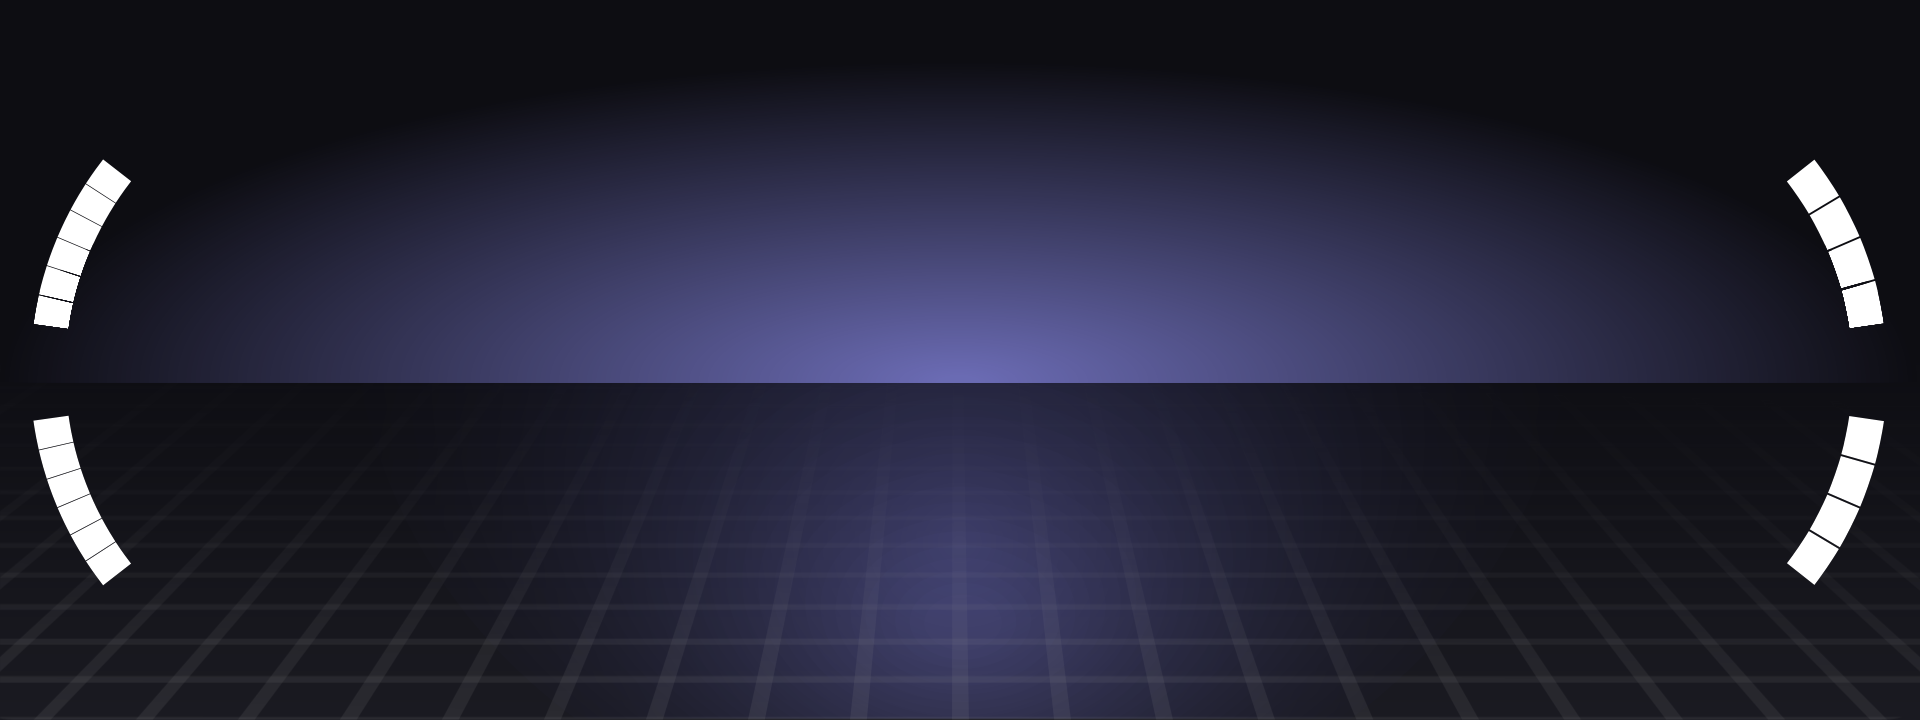
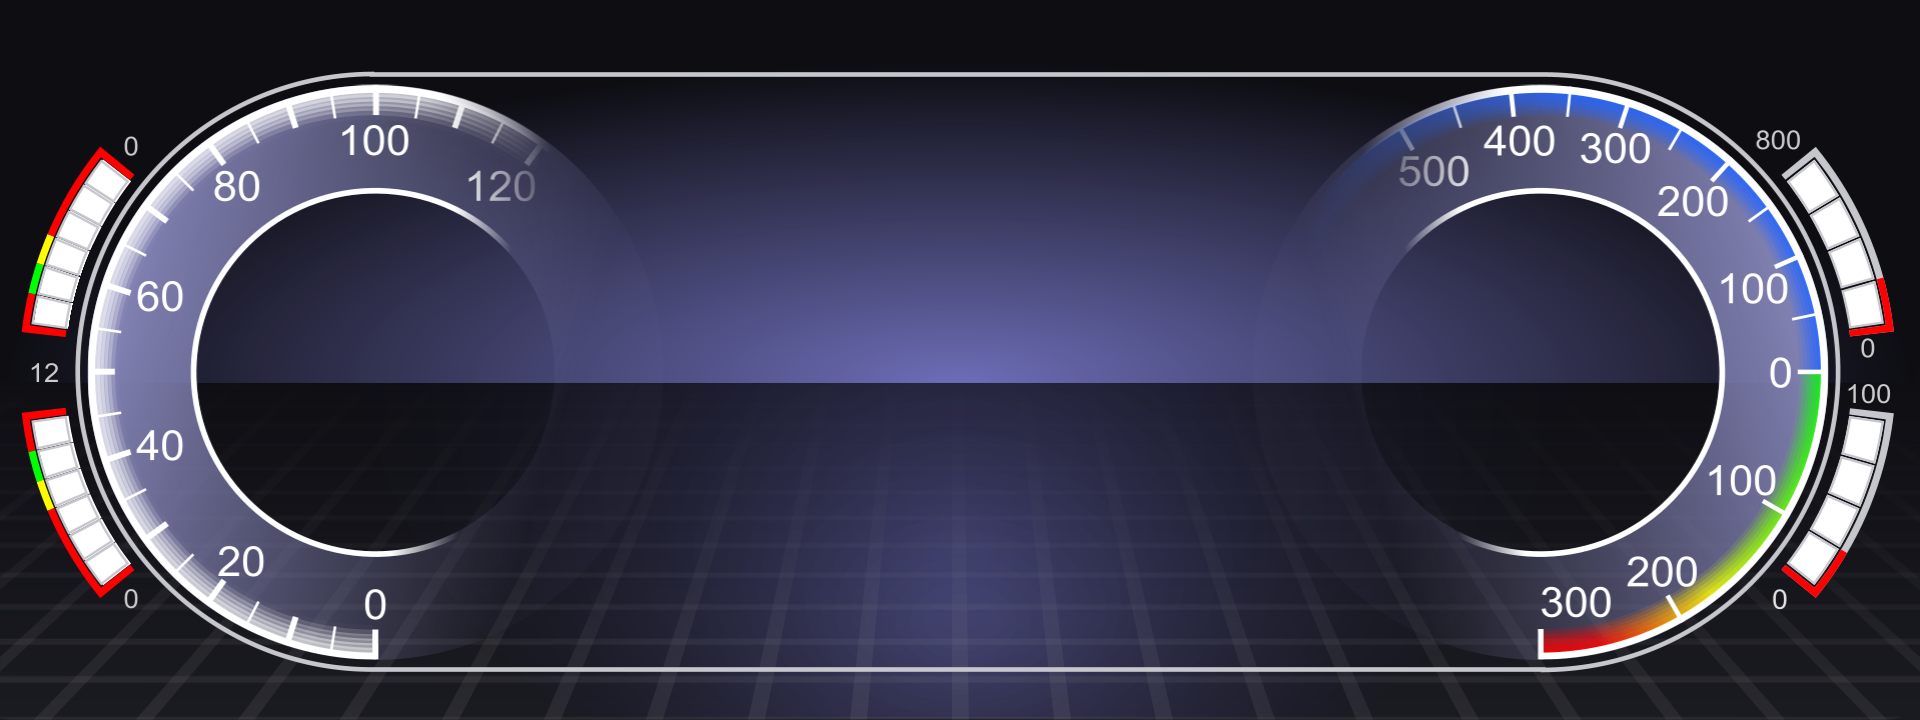
update

Changed region(s): [[0.0, 0.0917, 1.0, 0.9472]]

diff --git a/main.qml b/main.qml
@@ -506,9 +506,9 @@ Item{
             property string skString;
             function onSendIpToQml(inputStr){
                 skString = inputStr
-                if (skString.indexOf("10.0") !== -1 || skString.indexOf("10.6") !== -1 || skString.indexOf("172.19") !== -1){
+                if (skString.indexOf("10.0") !== -1 || skString.indexOf("10.6") !== -1 || skString.indexOf("172") !== -1){
                     buttonIsVisible = true
-                    backlightControlObject.backlightLevelChanged(30)
+                    backlightControl.backlightLevelChanged(30)
                 }
                 else{
                     buttonIsVisible = false
@@ -740,19 +740,14 @@ Item{
                 }
             }
         }
-        Image {
+        Item {
             id: dials
             x: 0
             y: 0
             width: 1920
             height: 720
-            sourceSize.height: 0
-            sourceSize.width: 0
             visible: true
             z: 0
-            fillMode: Image.Pad
-            source: "img/dials.png"
-
             Item{
 
                 id: actualMileageItem
@@ -1015,31 +1010,17 @@ Item{
                         font.pixelSize: 60
                         horizontalAlignment: Text.AlignRight
                         verticalAlignment: Text.AlignVCenter
-
-                        Text {
-                            id: estimatedKilometersRangeText
-                            x: 0
-                            y: 0
-                            width: estimatedKilometersRangeValue.width + 40
-                            height: estimatedKilometersRangeValue.height
-                            color: "#ffffff"
-                            text: qsTr("км")
-                            font.pixelSize: estimatedKilometersRangeValue.font.pixelSize / 2
-                            font.family: "Arial"
-                            horizontalAlignment: Text.AlignRight
-                            verticalAlignment: Text.AlignVCenter
-                        }
                     }
 
                     Image {
 
                         id: estimatedRangeImage
-                        x: 101
-                        y: 14
-                        width: 100
-                        height: 42
+                        x: 106
+                        y: -13
+                        width: 134
+                        height: 87
                         fillMode: Image.PreserveAspectFit
-                        source: "DashboardGeneral/images/estimated_range_new.png"
+                        source: "DashboardGeneral/images/estimatedRangeElectro.png"
                     }
                 }
 

diff --git a/SignalLamps.qml b/SignalLamps.qml
@@ -25,10 +25,10 @@ Item {
     }
     ShiftSelector_C {
         id: shiftSelector
-        x: 902
-        y: 84
-        width: 120
-        height: 80
+        x: 918
+        y: 92
+        width: 92
+        height: 64
     }
     Connections{
             target: busInterior
@@ -1111,7 +1111,7 @@ Item {
         width: 45
         height: width
         visible: true
-        source: "DashboardGeneral/images/fireExtinguishersAndTaps/fireExtinguisherRed.png"
+        source: "DashboardGeneral/images/menu/fireExtinguishersAndTaps/fireExtinguisherRed.png"
         fillMode: Image.PreserveAspectFit
         autoTransform: true
         test: signalLampTest
@@ -1130,11 +1130,11 @@ Item {
 
     SignalLamp_C {
         id: door2Valve_L
-        x: 799
+        x: 797
         y: 345
         width: 44
         height: door2Valve_L.width
-        source: "DashboardGeneral/images/fireExtinguishersAndTaps/valveCloseCapOpen.png"
+        source: "DashboardGeneral/images/menu/doors/valveYellow.png"
         test: signalLampTest
     }
 
@@ -1161,10 +1161,10 @@ Item {
     SignalLamp_C {
         id: door1Valve_L
         x: 997
-        y: 361
+        y: 363
         width: 44
         height: 44
-        source: "DashboardGeneral/images/fireExtinguishersAndTaps/valveCloseCapOpen.png"
+        source: "DashboardGeneral/images/menu/doors/valveYellow.png"
         test: signalLampTest
     }
 

diff --git a/loader.qml b/loader.qml
@@ -10,8 +10,7 @@ Window {
     visible: true
     width: 1920
     height: 720
-    color: "#ffffff"
-    property alias baseHeight: base.height
+    color: "#000000"
     title: qsTr("DashBoard")
     Loader {
         id: myLoader
@@ -20,15 +19,6 @@ Window {
         asynchronous: true
         active: false
         source: "qrc:/main.qml"
-
-        Rectangle {
-            id: base
-            width: myLoader.width
-            height: myLoader.height
-            color: "#000000"
-            z: 0
-            border.width: 0
-        }
         Image {
             id: logo
             x: 710

diff --git a/loader.cpp b/loader.cpp
@@ -18,6 +18,7 @@
 #include "DashBoardClasses/dashboardclass.h"
 #include "DashBoardClasses/trans.h"
 #include "DashBoardClasses/logtofile.h"
+#include "DashBoardClasses/fpstext.h"
 
 #include "canDataBase/canDataBase.h"
 //#include <libudev.h>
@@ -27,7 +28,7 @@
 
 int main(int argc, char *argv[])
 {
-    QString softVersion = "1.1.18";
+    QString softVersion = "1.1.19";
     //Установка переменных среды
     //qputenv("QT_GSTREAMER_PLAYBIN_AUDIOSINK", "alsasink");
     //qputenv("QT_GSTREAMER_USE_PLAYBIN_VOLUME", "1");
@@ -42,6 +43,7 @@ int main(int argc, char *argv[])
     //criticalThread.setPriority(QThread::TimeCriticalPriority);
 
     //LogToFile logtofile;
+    qmlRegisterType<FPSText>("com.ast", 1, 0, "FPSText");
     qmlRegisterUncreatableType<SignalLampE>("com.gaz.signalLampE", 1, 0, "SignalLampE", "Enum only");
 
     Trans trans(&engine);
@@ -101,13 +103,13 @@ int main(int argc, char *argv[])
     //    EnergyConsumption energyConsumption;
     //    engine.rootContext()->setContextProperty("energyConsumption", &energyConsumption);
 
-    BacklightControlClass backlightControlObject("backlightControlObject");
-    backlightControlObject.backlightLevelChanged(100);
-    engine.rootContext()->setContextProperty("backlightControlObject", &backlightControlObject);
+    BacklightControlClass backlightControl("backlightControl");
+    backlightControl.backlightLevelChanged(100);
+    engine.rootContext()->setContextProperty("backlightControl", &backlightControl);
 
     Gpio KL_15(165, GPIO_INPUT);
 
-    DashboardClass dashboardObject(softVersion, &KL_15, &backlightControlObject);
+    DashboardClass dashboardObject(softVersion, &KL_15, &backlightControl);
     engine.rootContext()->setContextProperty("dashboardObject", &dashboardObject);
     QObject::connect(&ican, &CanBus::writtenMsg_DB1, &dashboardObject, &DashboardClass::incHearthBeatCounter);
 
